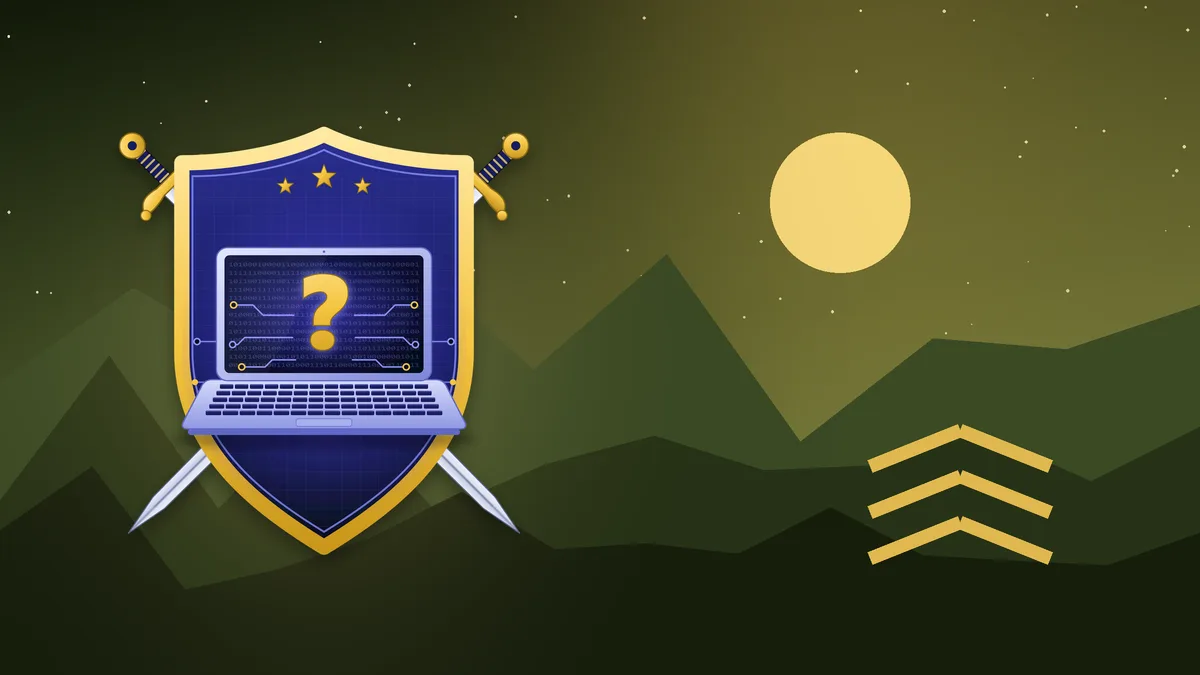
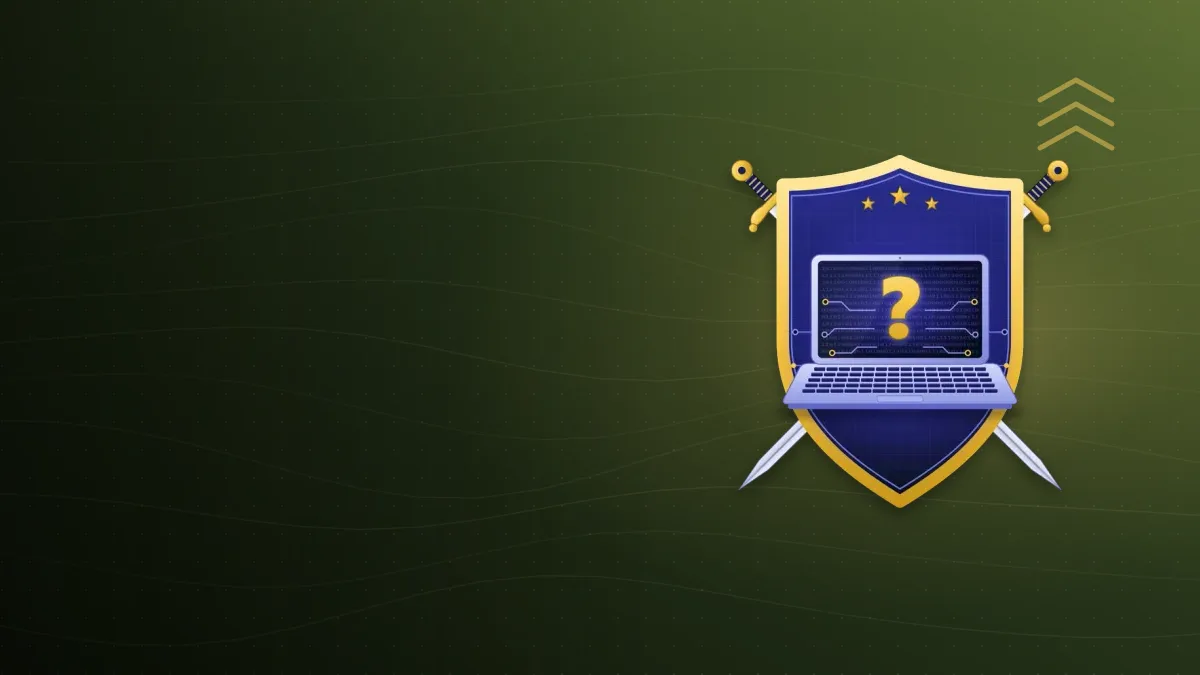
ok

diff --git a/src/components/home/picture-card.tsx b/src/components/home/picture-card.tsx
@@ -24,7 +24,7 @@ export function ArtBackdrop({ art, tone }: { art: string; tone: Tone }) {
   const [state, setState] = useState<"loading" | "ok" | "missing">("loading");
   return (
     <>
-      <span aria-hidden className={`absolute inset-0 bg-gradient-to-br ${TONES[tone]}`} />
+      <span aria-hidden className={`absolute inset-0 bg-linear-to-br ${TONES[tone]}`} />
       {state !== "ok" && (
         // eslint-disable-next-line @next/next/no-img-element
         <img src="/icons/icon-192.png" alt="" aria-hidden className="absolute right-4 top-4 h-16 w-16 opacity-30" />
@@ -55,7 +55,7 @@ function LogoBadge({ name }: { name: string }) {
   );
 }
 
-const SHADE = "pointer-events-none absolute inset-0 bg-gradient-to-t from-black/85 via-black/25 to-transparent";
+const SHADE = "pointer-events-none absolute inset-0 bg-linear-to-t from-black/85 via-black/25 to-transparent";
 
 /** A big picture button. "wide" is for the two Home cards, "tile" for the course cards. */
 export function PictureCard({
@@ -65,7 +65,7 @@ export function PictureCard({
   return (
     <Link
       href={href}
-      className={`relative block overflow-hidden rounded-card border border-line text-white ${wide ? "aspect-[16/9]" : "aspect-[4/3]"} active:opacity-90`}
+      className={`relative block overflow-hidden rounded-card border border-line text-white ${wide ? "aspect-video" : "aspect-4/3"} active:opacity-90`}
     >
       <ArtBackdrop art={art} tone={tone} />
       <span aria-hidden className={SHADE} />
@@ -94,7 +94,7 @@ export function PictureCard({
 /** A slim picture strip at the top of a screen (Academia, Military). */
 export function Banner({ art, tone, title, subtitle }: { art: string; tone: Tone; title: string; subtitle: string }) {
   return (
-    <div className="relative mt-3 h-24 overflow-hidden rounded-card border border-line text-white">
+    <div className="relative mt-3 aspect-2/1 overflow-hidden rounded-card border border-line text-white sm:aspect-3/1">
       <ArtBackdrop art={art} tone={tone} />
       <span aria-hidden className={SHADE} />
       <span className="absolute inset-x-3 bottom-2.5">

diff --git a/src/components/military/issb-card.tsx b/src/components/military/issb-card.tsx
@@ -27,7 +27,7 @@ export function IssbCard({ initialVote }: { initialVote: boolean | null }) {
 
   const asking = vote === null || changing;
   return (
-    <section aria-label="ISSB, coming soon" className="relative flex min-h-[200px] overflow-hidden rounded-card border border-line text-white sm:aspect-[16/9]">
+    <section aria-label="ISSB, coming soon" className="relative flex min-h-50 overflow-hidden rounded-card border border-line text-white sm:aspect-video">
       <span aria-hidden className="absolute inset-0 scale-110 blur-md">
         <ArtBackdrop art="course-issb" tone="issb" />
       </span>
